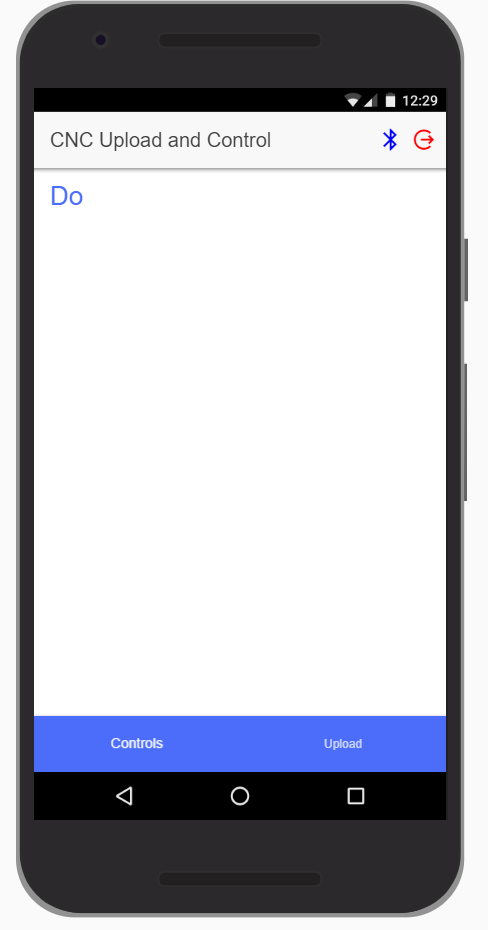
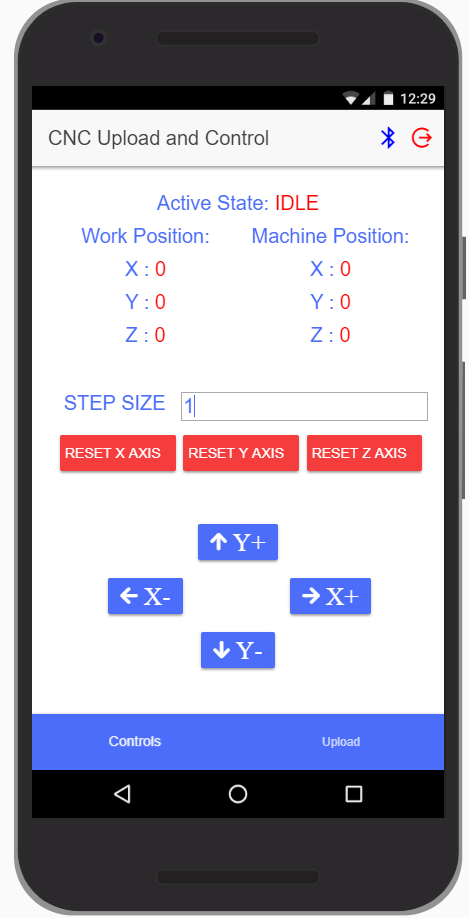
controls page UI

diff --git a/src/pages/control/control.html b/src/pages/control/control.html
@@ -6,10 +6,78 @@
 -->
 <ion-header>
 
- 
+
 </ion-header>
 
-
 <ion-content padding>
-  <h1>Do</h1>
+  <ion-grid>
+    <ion-row>
+      <ion-col col-12 class="col-norm">Active State: <span style="color: red">IDLE</span></ion-col>
+    </ion-row>
+    <ion-row>
+      <ion-col col-6 class="col-norm">Work Position: </ion-col>
+      <ion-col col-6 class="col-norm">Machine Position: </ion-col>
+    </ion-row>
+    <ion-row>
+      <ion-col col-6 class="col-norm">X : <span style="color: red">0</span> </ion-col>
+      <ion-col col-6 class="col-norm">X : <span style="color: red">0</span> </ion-col>
+    </ion-row>
+    <ion-row>
+      <ion-col col-6 class="col-norm">Y : <span style="color: red">0</span> </ion-col>
+      <ion-col col-6 class="col-norm">Y : <span style="color: red">0</span> </ion-col>
+    </ion-row>
+    <ion-row>
+      <ion-col col-6 class="col-norm">Z : <span style="color: red">0</span>  </ion-col>
+      <ion-col col-6 class="col-norm">Z : <span style="color: red">0</span>  </ion-col>
+    </ion-row>
+  </ion-grid>
+  <ion-grid style="margin-top: 25px">
+    <ion-row>
+      <ion-col col-4 >
+        STEP SIZE
+      </ion-col>
+      <ion-col col-6>
+        <input type="number" min="0"/>
+      </ion-col>
+    </ion-row>
+    <ion-row>
+      <ion-col col-4 >
+          <button  style="padding-left: 5px" ion-button color="danger">Reset X axis</button>
+      </ion-col>
+      <ion-col col-4 >
+          <button  style="padding-left: 5px" ion-button color="danger">Reset Y axis</button>
+      </ion-col>
+      <ion-col col-4 >
+          <button  style="padding-left: 5px" ion-button color="danger">Reset Z axis</button>
+      </ion-col>
+    </ion-row>
+  </ion-grid>
+  <ion-grid style="margin-top: 25px"> 
+    <ion-row>
+      <ion-col>
+          <button ion-button icon-only>
+              <ion-icon name="md-arrow-round-up"> Y+</ion-icon>
+          </button>
+      </ion-col>
+    </ion-row>
+    <ion-row>
+        <ion-col col-6>
+            <button ion-button icon-only>
+                <ion-icon name="md-arrow-round-back"> X-</ion-icon>
+            </button>
+        </ion-col>
+        <ion-col col-6>
+            <button ion-button icon-only>
+                <ion-icon name="md-arrow-round-forward"> X+</ion-icon>
+            </button>
+        </ion-col>
+      </ion-row>
+      <ion-row>
+          <ion-col>
+              <button ion-button icon-only>
+                  <ion-icon name="md-arrow-round-down"> Y-</ion-icon>
+              </button>
+          </ion-col>
+        </ion-row>
+  </ion-grid>
 </ion-content>

diff --git a/src/pages/register/register.ts b/src/pages/register/register.ts
@@ -11,6 +11,7 @@ import {HomePage} from "../home/home";
 export class RegisterPage {
 
   constructor(public nav: NavController) {
+    
   }
 
   // register and go to home page

diff --git a/src/pages/control/control.scss b/src/pages/control/control.scss
@@ -1,3 +1,7 @@
 page-control {
-
+    ion-col{
+        font-size: 20px;
+        text-align: center
+        
+    }
 }
